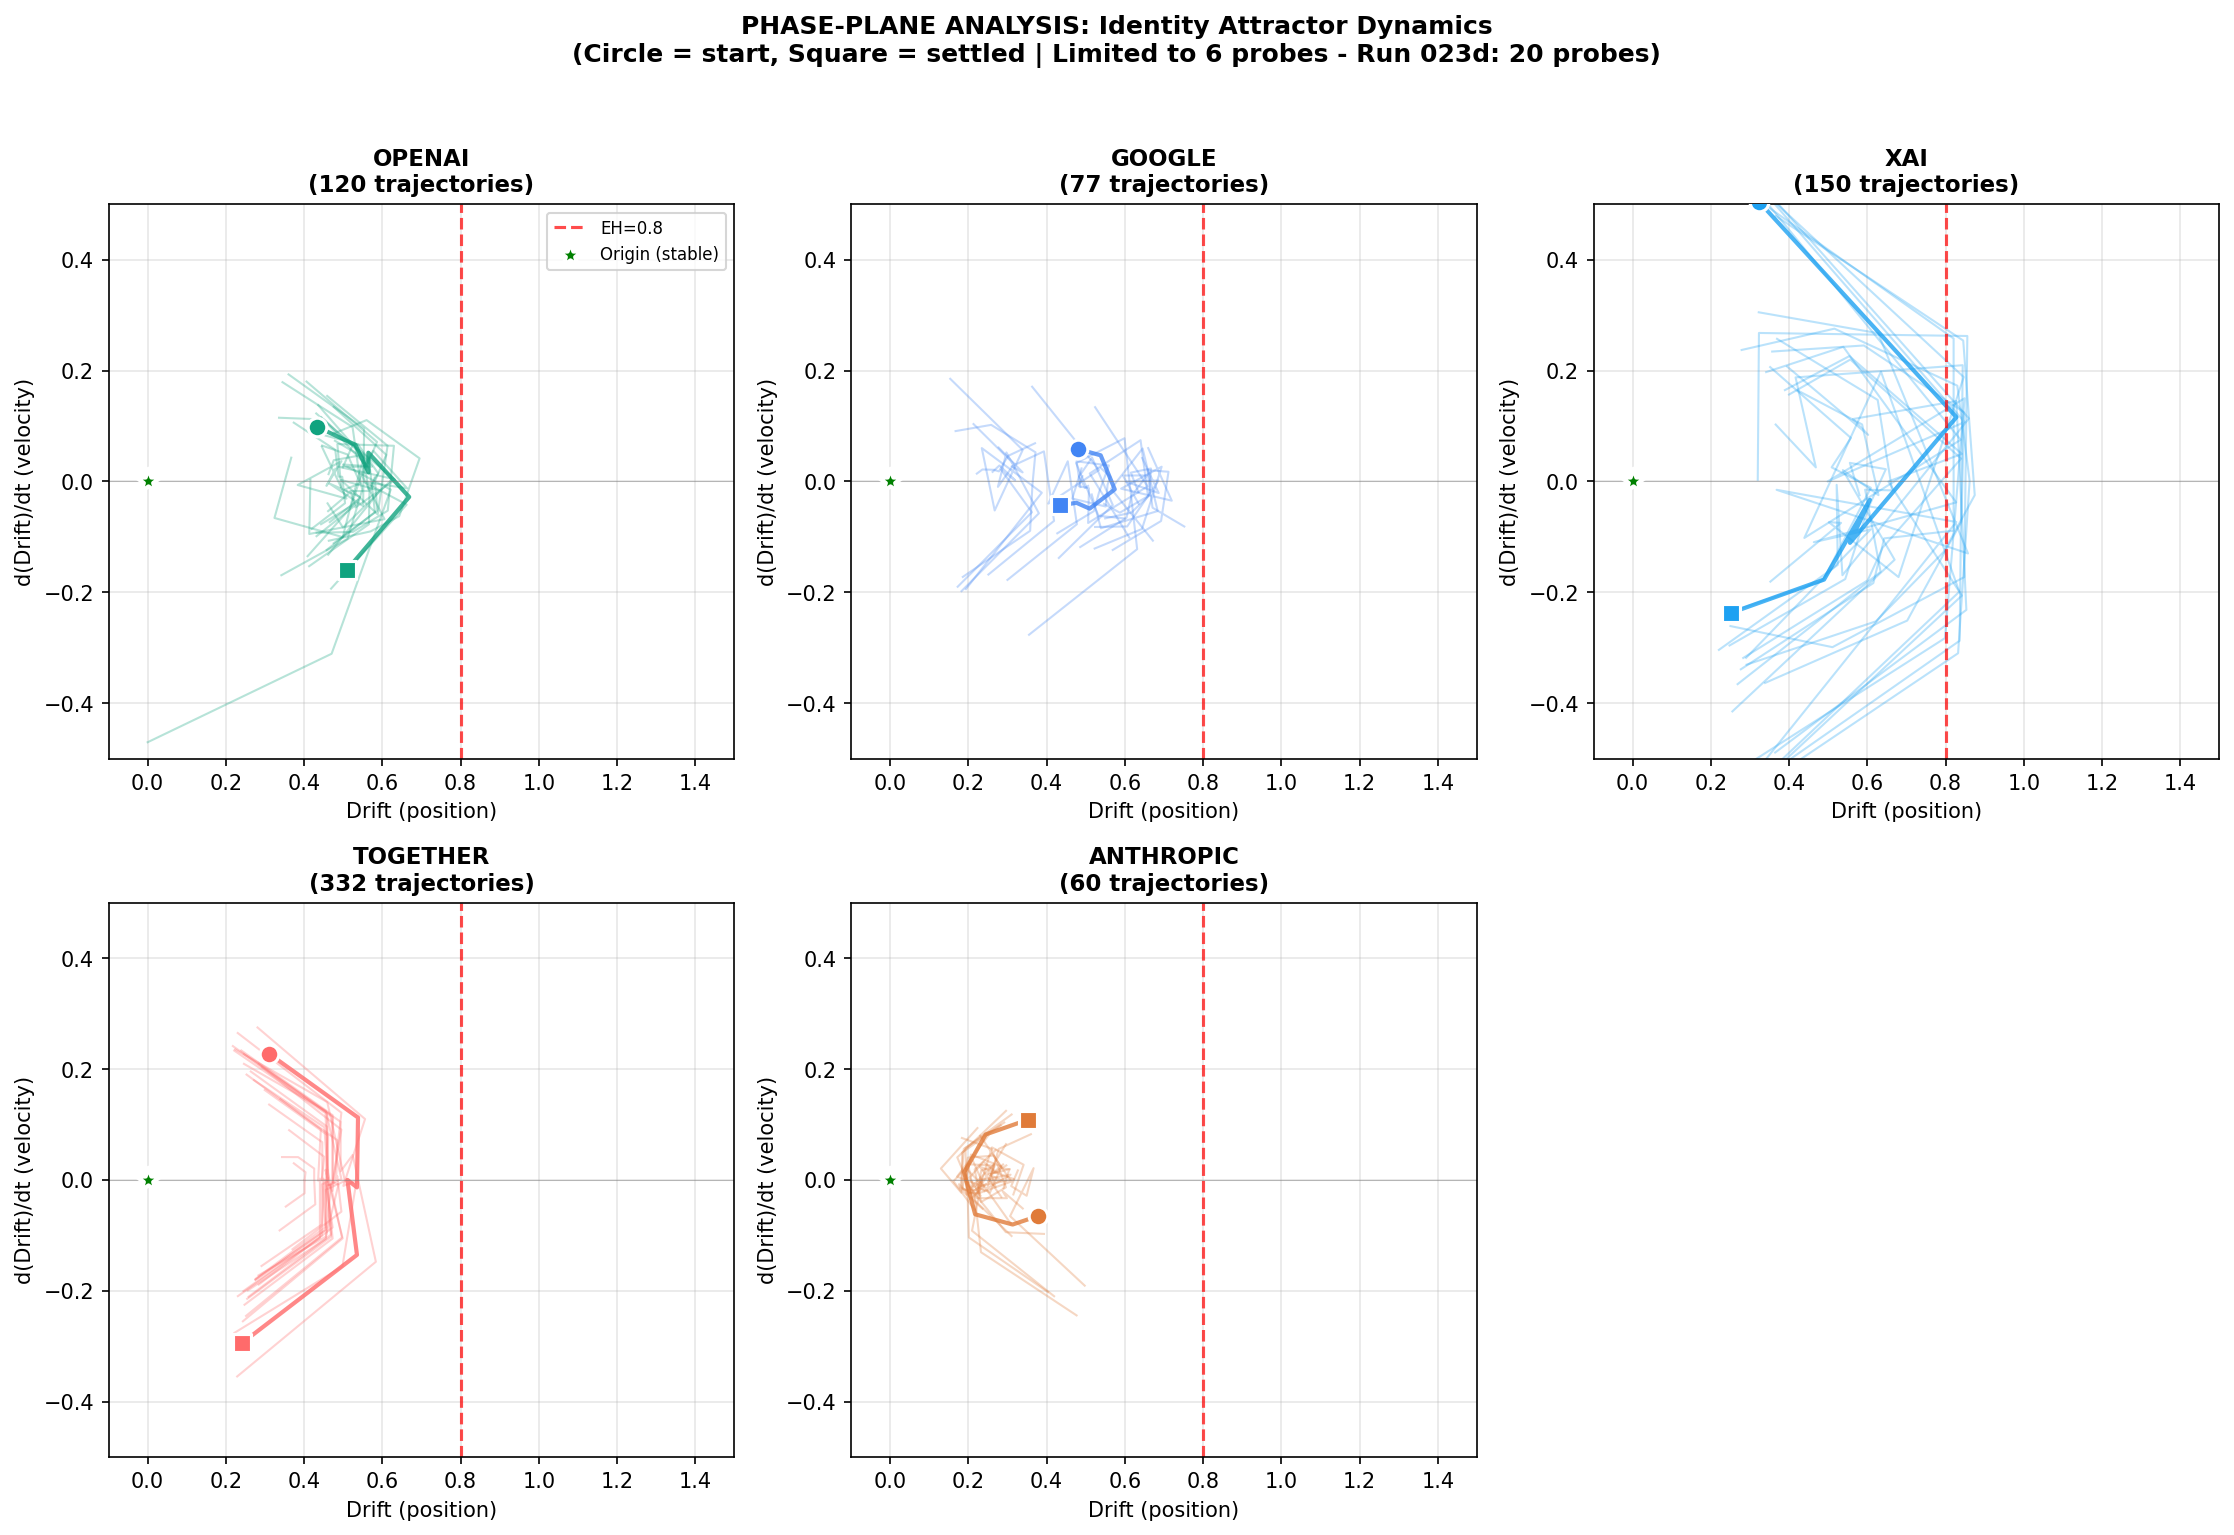
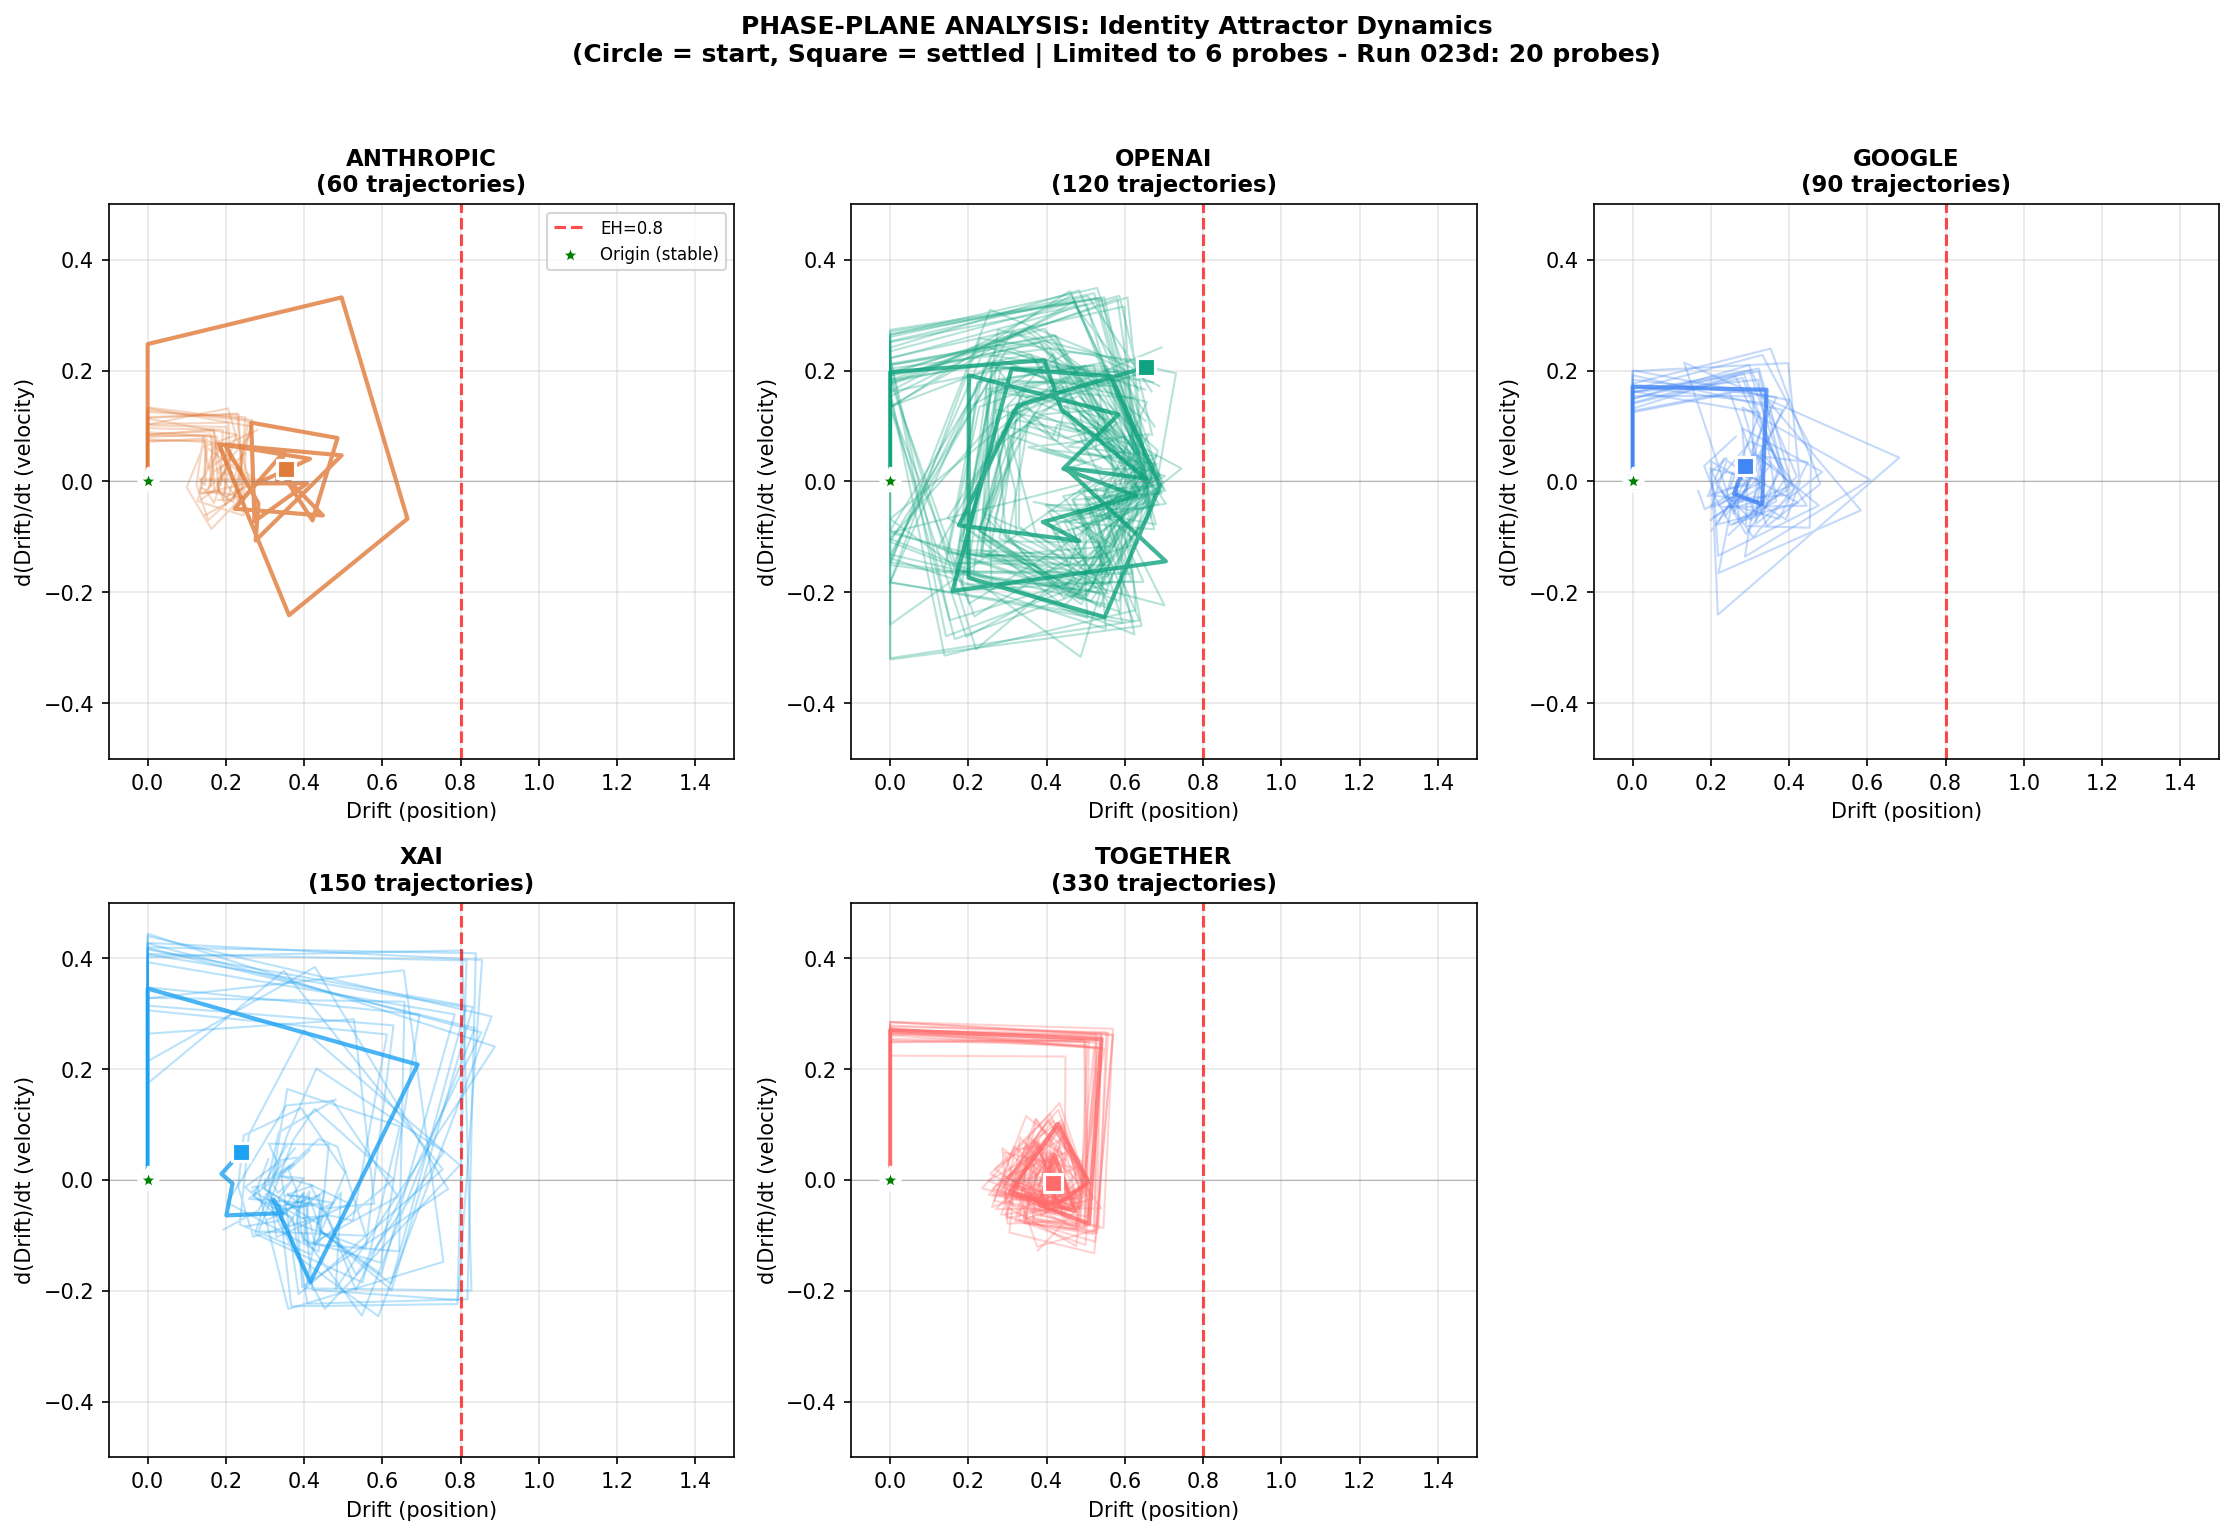
RnD visualizations now use Run 023d (20-probe extended settling)
- Switch from 023b (6 probes) to 023d (20+ probes)
- FFT spectrogram now has sufficient data for meaningful analysis
- Filter updated to support both 'settling' and 'extended_settling' experiments
- All 750 experiments visualized with full temporal resolution

🤖 Generated with [Claude Code](https://claude.com/claude-code)

diff --git a/experiments/temporal_stability/S7_ARMADA/visualizations/pics/5_Settling/RnD_experiments/RnD_Settling_Visualization.py b/experiments/temporal_stability/S7_ARMADA/visualizations/pics/5_Settling/RnD_experiments/RnD_Settling_Visualization.py
@@ -11,16 +11,14 @@ Visualizations:
 3. FFT OF SETTLING CURVES - Frequency content of settling oscillations
 4. CONSISTENCY ENVELOPE - Overlaid trajectories showing bundle coherence
 
-DATA LIMITATION NOTE (2025-12-20):
-==================================
-Current data (run023b) has ONLY 6 PROBES per settling experiment.
-This limits temporal resolution for:
-- Waterfall plots (showing only 6 time points, not full 20)
-- FFT spectral analysis (insufficient for meaningful spectrogram)
-- Oobleck controllability demonstration (not captured)
+DATA SOURCE NOTE (2025-12-21):
+==============================
+Now using Run 023d data with FULL 20-PROBE extended settling!
+- Waterfall plots: Full temporal resolution (20 time points)
+- FFT spectral analysis: Sufficient data for meaningful spectrogram
+- Oobleck controllability: Captured for non-settling models
 
-Run 023d will collect extended 20-probe settling data with Oobleck
-controllability demonstration to enable full visualization capabilities.
+Run 023d: 750 experiments (25 ships x 30 iterations) COMPLETE.
 
 Created: 2025-12-20
 Author: Claude Code (Anthropic)
@@ -39,7 +37,7 @@ from scipy.fft import fft, fftfreq
 # ============================================================================
 
 DATA_FILE = Path(__file__).parent.parent.parent.parent.parent / \
-    "15_IRON_CLAD_FOUNDATION" / "results" / "S7_run_023b_CURRENT.json"
+    "15_IRON_CLAD_FOUNDATION" / "results" / "S7_run_023d_CURRENT.json"
 
 OUTPUT_DIR = Path(__file__).parent  # Same folder as this script
 
@@ -67,7 +65,9 @@ def load_settling_data():
 
     settling_results = []
     for result in data.get('results', []):
-        if result.get('experiment') == 'settling':
+        # Support both 'settling' (023b) and 'extended_settling' (023d)
+        exp_type = result.get('experiment', '')
+        if exp_type in ('settling', 'extended_settling'):
             settling_results.append(result)
 
     print(f"Loaded {len(settling_results)} settling results")
